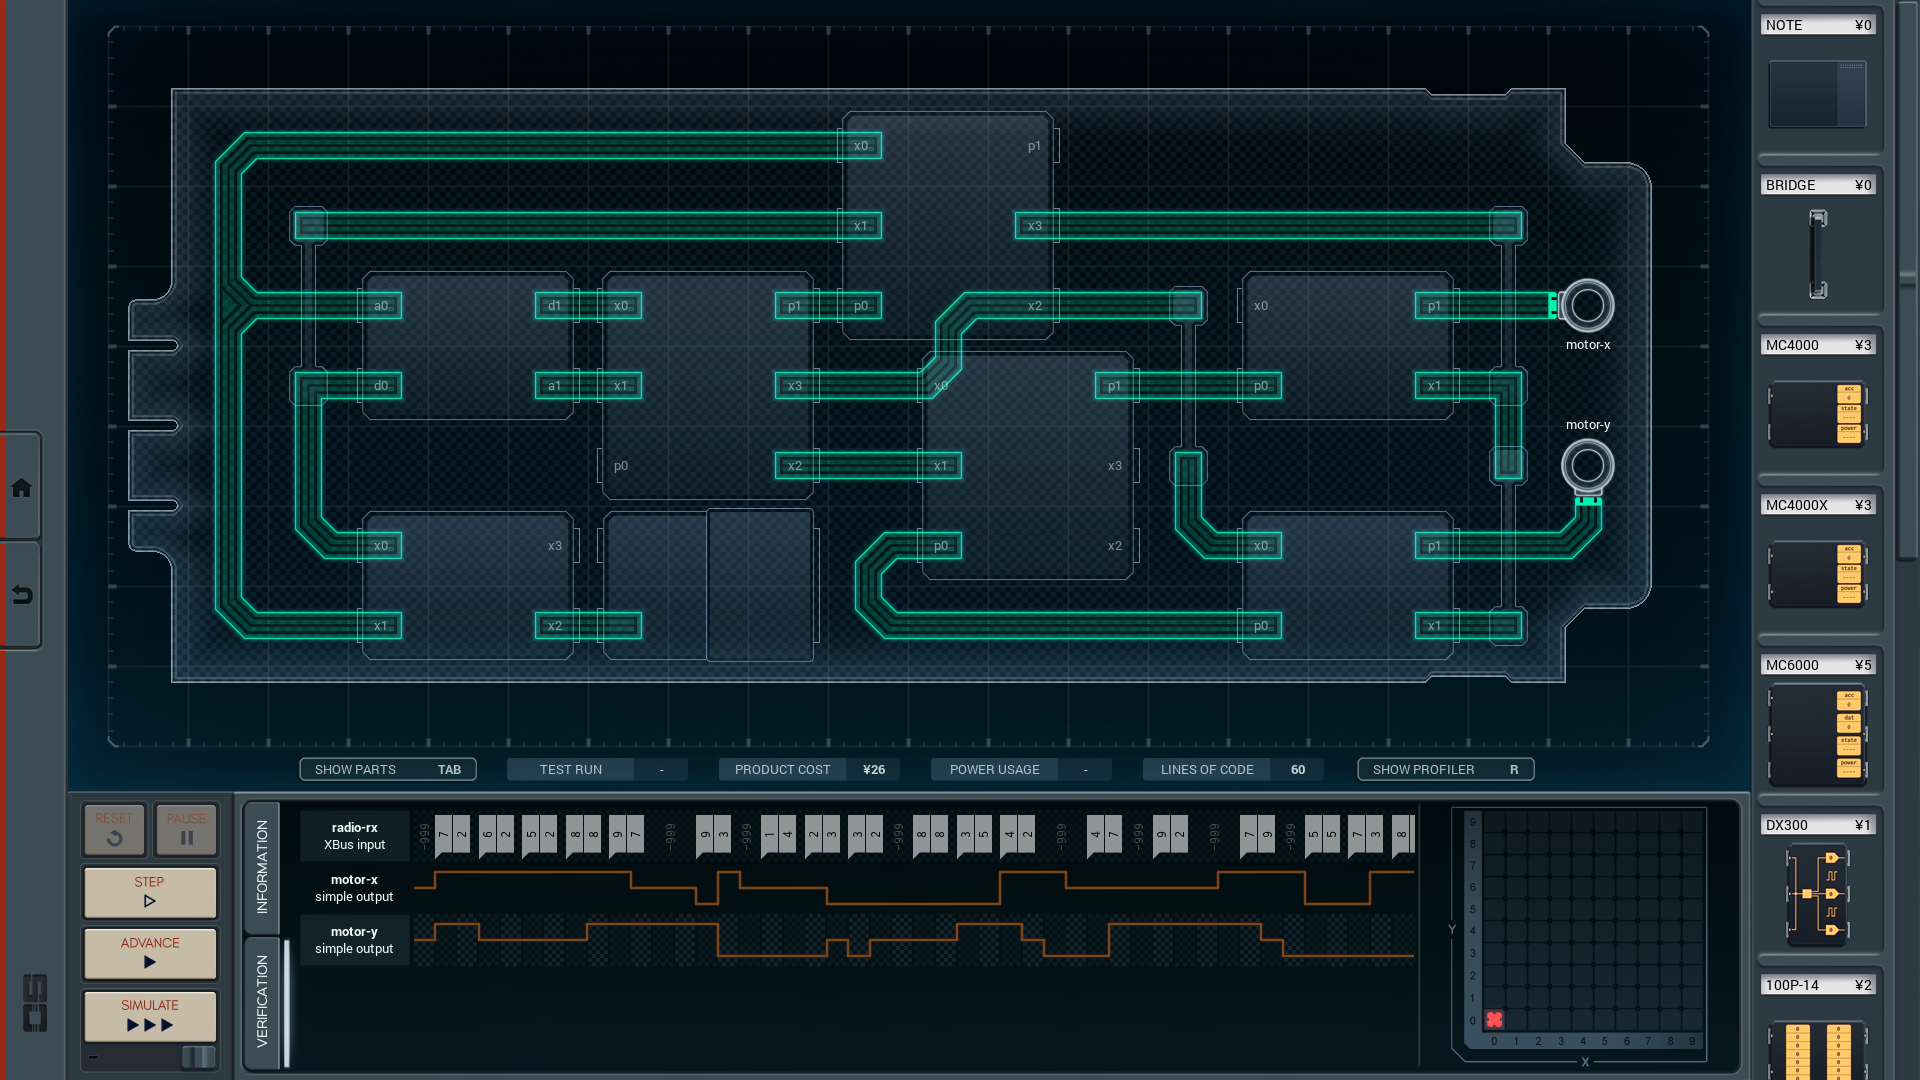
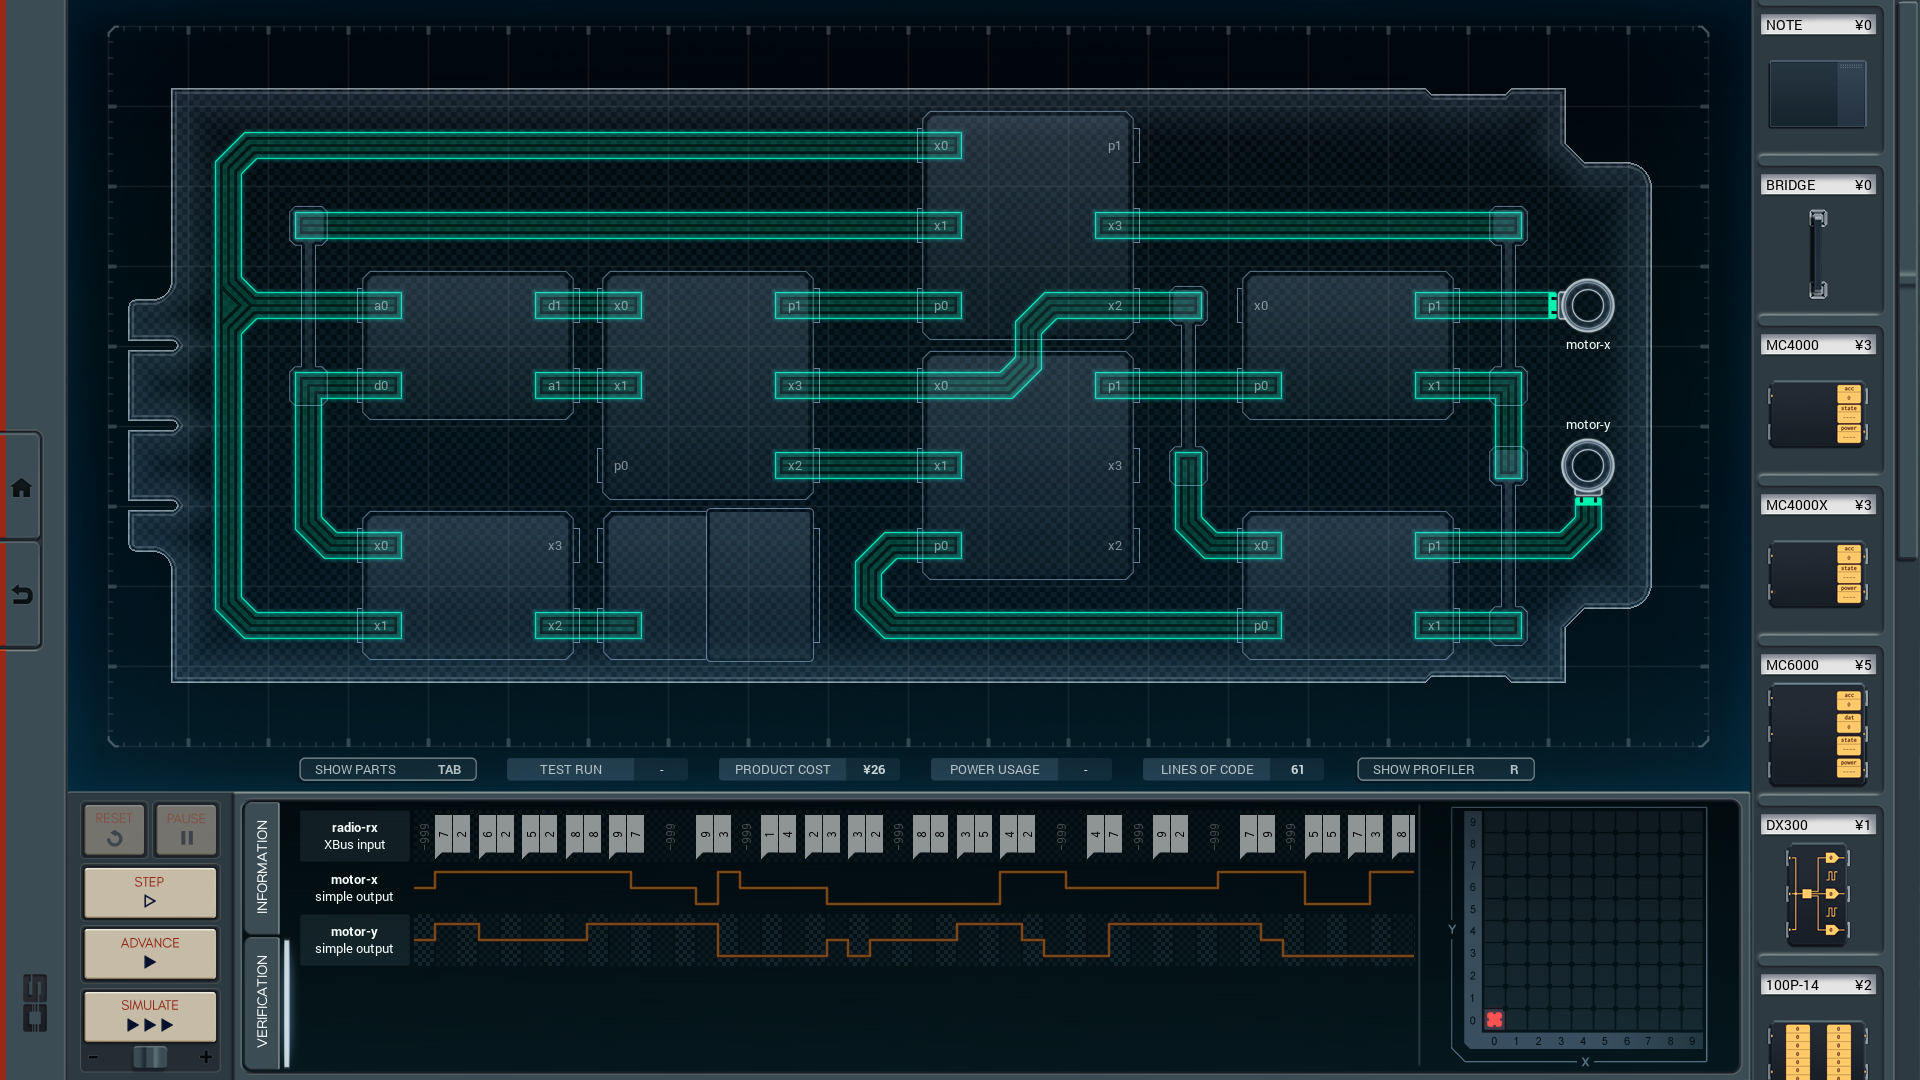
2023/08/21 Optimized the Aquatic Harvesting Robot solution [BEF] 26C / 4467P / 60L [AFT] 26C / 4447P / 61L

Changed region(s): [[0.4375, 0.0917, 0.5938, 0.3972], [0.0625, 0.9472, 0.125, 1.0]]

diff --git a/bonus-3113-aquatic-harvesting-robot/README.md b/bonus-3113-aquatic-harvesting-robot/README.md
@@ -1,4 +1,4 @@
-26/4467/60 SOLUTION
+26/4447/61 SOLUTION
 -------------------
 
 ![screenshot0](https://github.com/shiawasenahikari/Shenzhen-IO-Solutions/blob/master/bonus-3113-aquatic-harvesting-robot/screenshot0.png)
